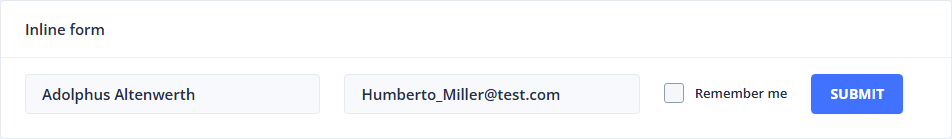
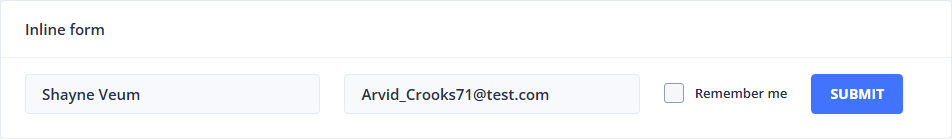
Section 8, Lesson 67 EnvironmentVariables, Complete!

Changed region(s): [[0.3655, 0.6331, 0.6092, 0.7482], [0.0305, 0.6331, 0.2132, 0.7482]]

diff --git a/tests/test-with-page-objects.spec.ts b/tests/test-with-page-objects.spec.ts
@@ -11,8 +11,7 @@ import { faker } from '@faker-js/faker'
 * Set up the test environment before each test case.
  */
 test.beforeEach(async ({ page }) => {
-    await page.goto('https://playground.bondaracademy.com/')            //Default URL for the Bondar Academy Playground Application > Form Layouts page
-
+    await page.goto('/')
 })
 
 /**
@@ -36,11 +35,11 @@ test('Parameterized Page Object Methods', async ({ page }) => {
     const randomEmail = faker.internet.email({ provider: 'test.com' })
 
     await pom.navigateTo.formLayoutsPage()
-    await pom.formLayoutsPage.submitUsingTheGridForm(randomEmail, 'Welcome', 'Option 2')
+    await pom.formLayoutsPage.submitUsingTheGridForm(process.env.TEST_USER_EMAIL!, process.env.TEST_USER_PASSWORD!, 'Option 2')
     await page.waitForTimeout(500) // Wait for 500 milliseconds to ensure the form submission is processed
     await page.screenshot({ path: 'screenshots/form-layouts.png' })  // Option 1: Capture a screenshot of the Form Layouts page after form submission
     const formLayoutPageBuffer = await page.screenshot({ path: 'screenshots/form-layouts.png' })  // Option 2: Log the screenshot buffer to the console for debugging purposes
-    console.log(formLayoutPageBuffer.toString('base64'))        // Log the screenshot buffer to the console in base64 format for debugging purposes
+    //console.log(formLayoutPageBuffer.toString('base64'))        // Log the screenshot buffer to the console in base64 format for debugging purposes
     
     await pom.formLayoutsPage.submitInlineForm(randomFullName, randomEmail, false)
     await page.locator('nb-card', { hasText: "Inline form" }).screenshot({ path: 'screenshots/inlineForm.png' })      // Capture a screenshot of the Inline form after submission

diff --git a/playwright.config.ts b/playwright.config.ts
@@ -4,9 +4,9 @@ import { defineConfig, devices } from '@playwright/test';
  * Read environment variables from file.
  * https://github.com/motdotla/dotenv
  */
-// import dotenv from 'dotenv';
-// import path from 'path';
-// dotenv.config({ path: path.resolve(__dirname, '.env') });
+import dotenv from 'dotenv';
+import path from 'path';
+dotenv.config({ path: path.resolve(__dirname, process.env.TEST_ENV ? `.env.${process.env.TEST_ENV}` : '.env') });
 
 /**
  * See https://playwright.dev/docs/test-configuration.
@@ -14,7 +14,7 @@ import { defineConfig, devices } from '@playwright/test';
 export default defineConfig({
   timeout: 10000,                   // Test timeout for each test; default is 30 seconds / 30000 ms
   globalTimeout: 60000,            // Global timeout for the whole test suite; no default
-  
+
   expect: {
     timeout: 5000,                  // Maximum time expect() should wait for the condition to be met; default is 5000 ms
   },
@@ -35,7 +35,7 @@ export default defineConfig({
   /* Shared settings for all the projects below. See https://playwright.dev/docs/api/class-testoptions. */
   use: {
     /* Base URL to use in actions like `await page.goto('')`. */
-    // baseURL: 'http://localhost:3000',
+    baseURL: process.env.URL,
 
     /* Collect trace when retrying the failed test. See https://playwright.dev/docs/trace-viewer */
     trace: 'on-first-retry',

diff --git a/tests/ui-components.spec.ts b/tests/ui-components.spec.ts
@@ -3,7 +3,7 @@ import { HelperBase } from '../page-objects/helper-base'
 
 test.beforeEach(async ({ page }) => {
     //await page.goto('http://localhost:4200/')                                            //Default Localhost URL for Angular Applications
-    await page.goto('https://playground.bondaracademy.com/pages/iot-dashboard')            //Default URL for the Bondar Academy Playground Application > Dashboard page
+    await page.goto('/')
     //await page.goto('https://playground.bondaracademy.com/pages/modal-overlays/dialog')      //Default URL for the Bondar Academy Playground Application > Dialog page
     //Important Note | Two Important Principles:
     //1. DRY: Don't Repeat Yourself - Avoid repeating code in multiple places, instead use functions or variables to store reusable code.

diff --git a/tests/first-test.spec.ts b/tests/first-test.spec.ts
@@ -1,7 +1,7 @@
 import {test, expect} from '@playwright/test'
 
 test.beforeEach(async ({page}) => {
-    await page.goto('https://playground.bondaracademy.com/')            //Default URL for the Bondar Academy Playground Application > Form Layouts page
+    await page.goto('/')
     await page.getByText('Forms').click()
     await page.getByText('Form Layouts').click()
 })
